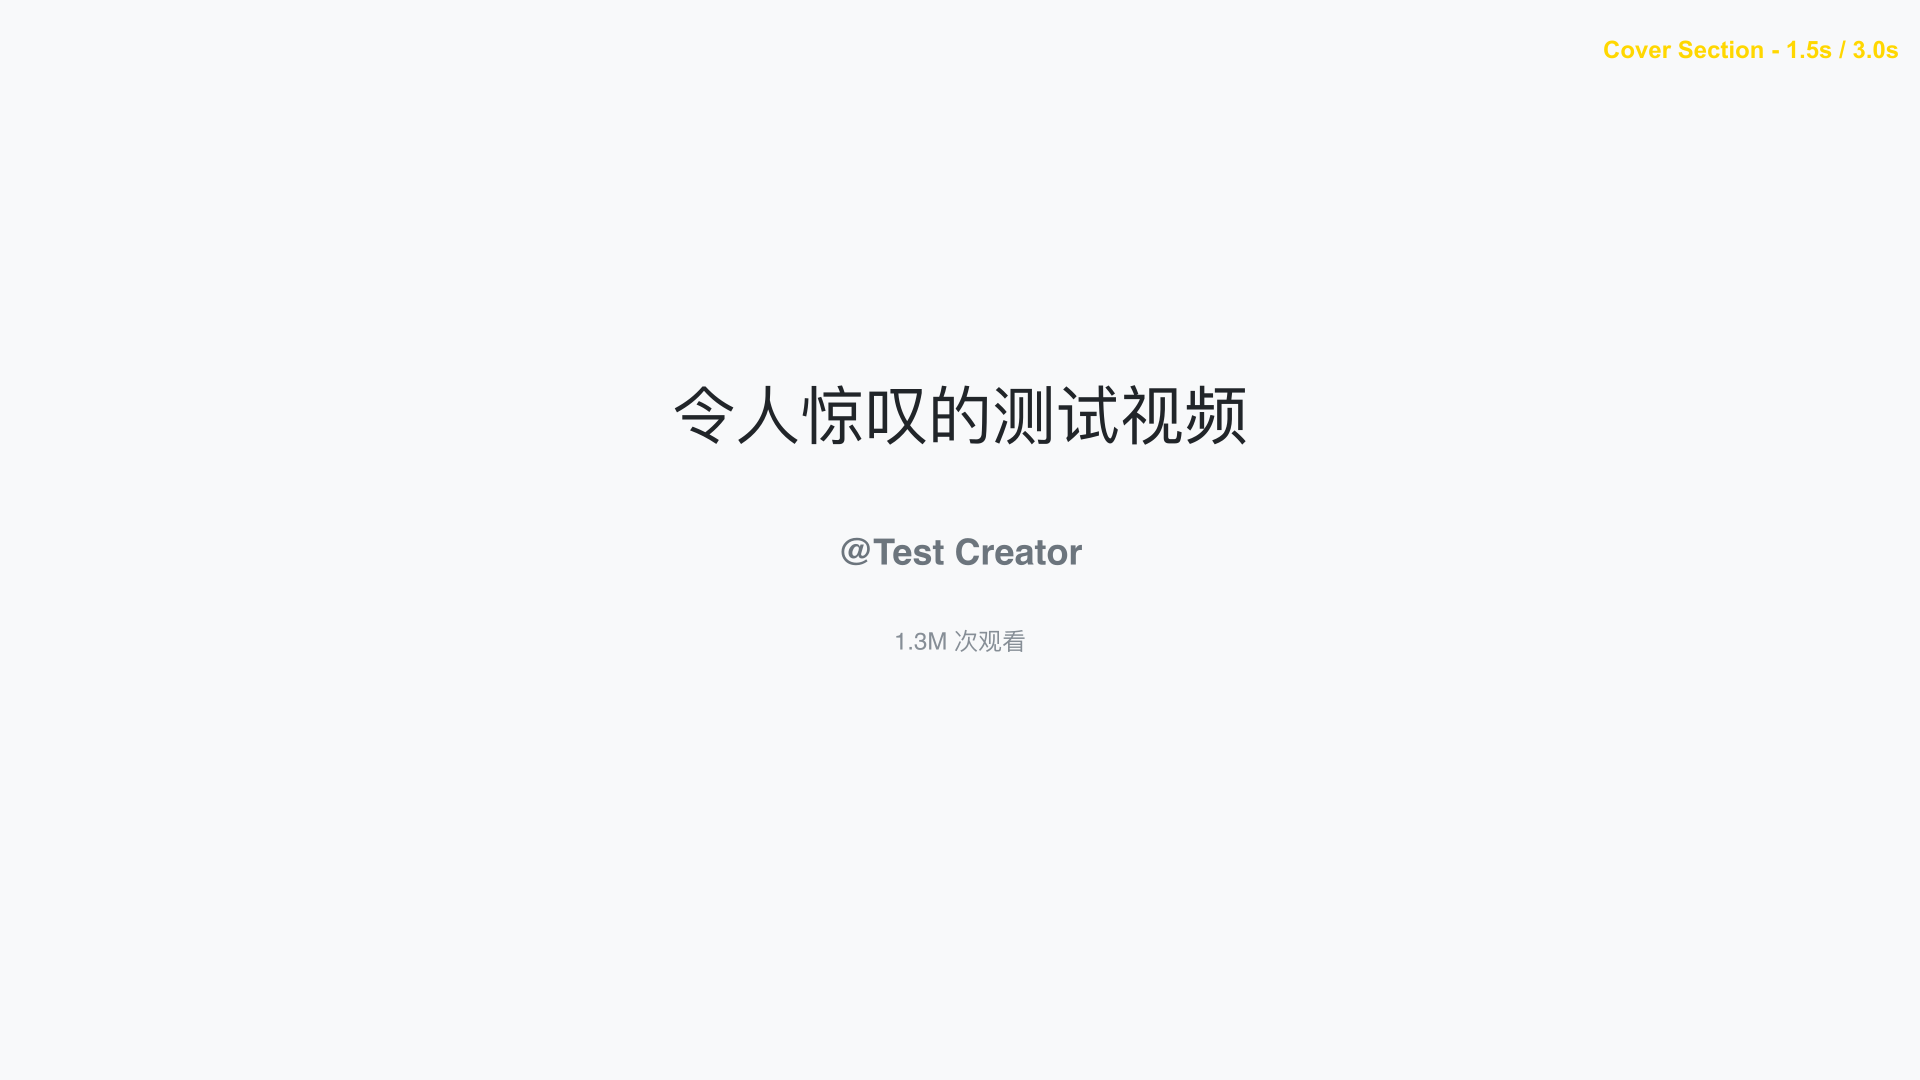
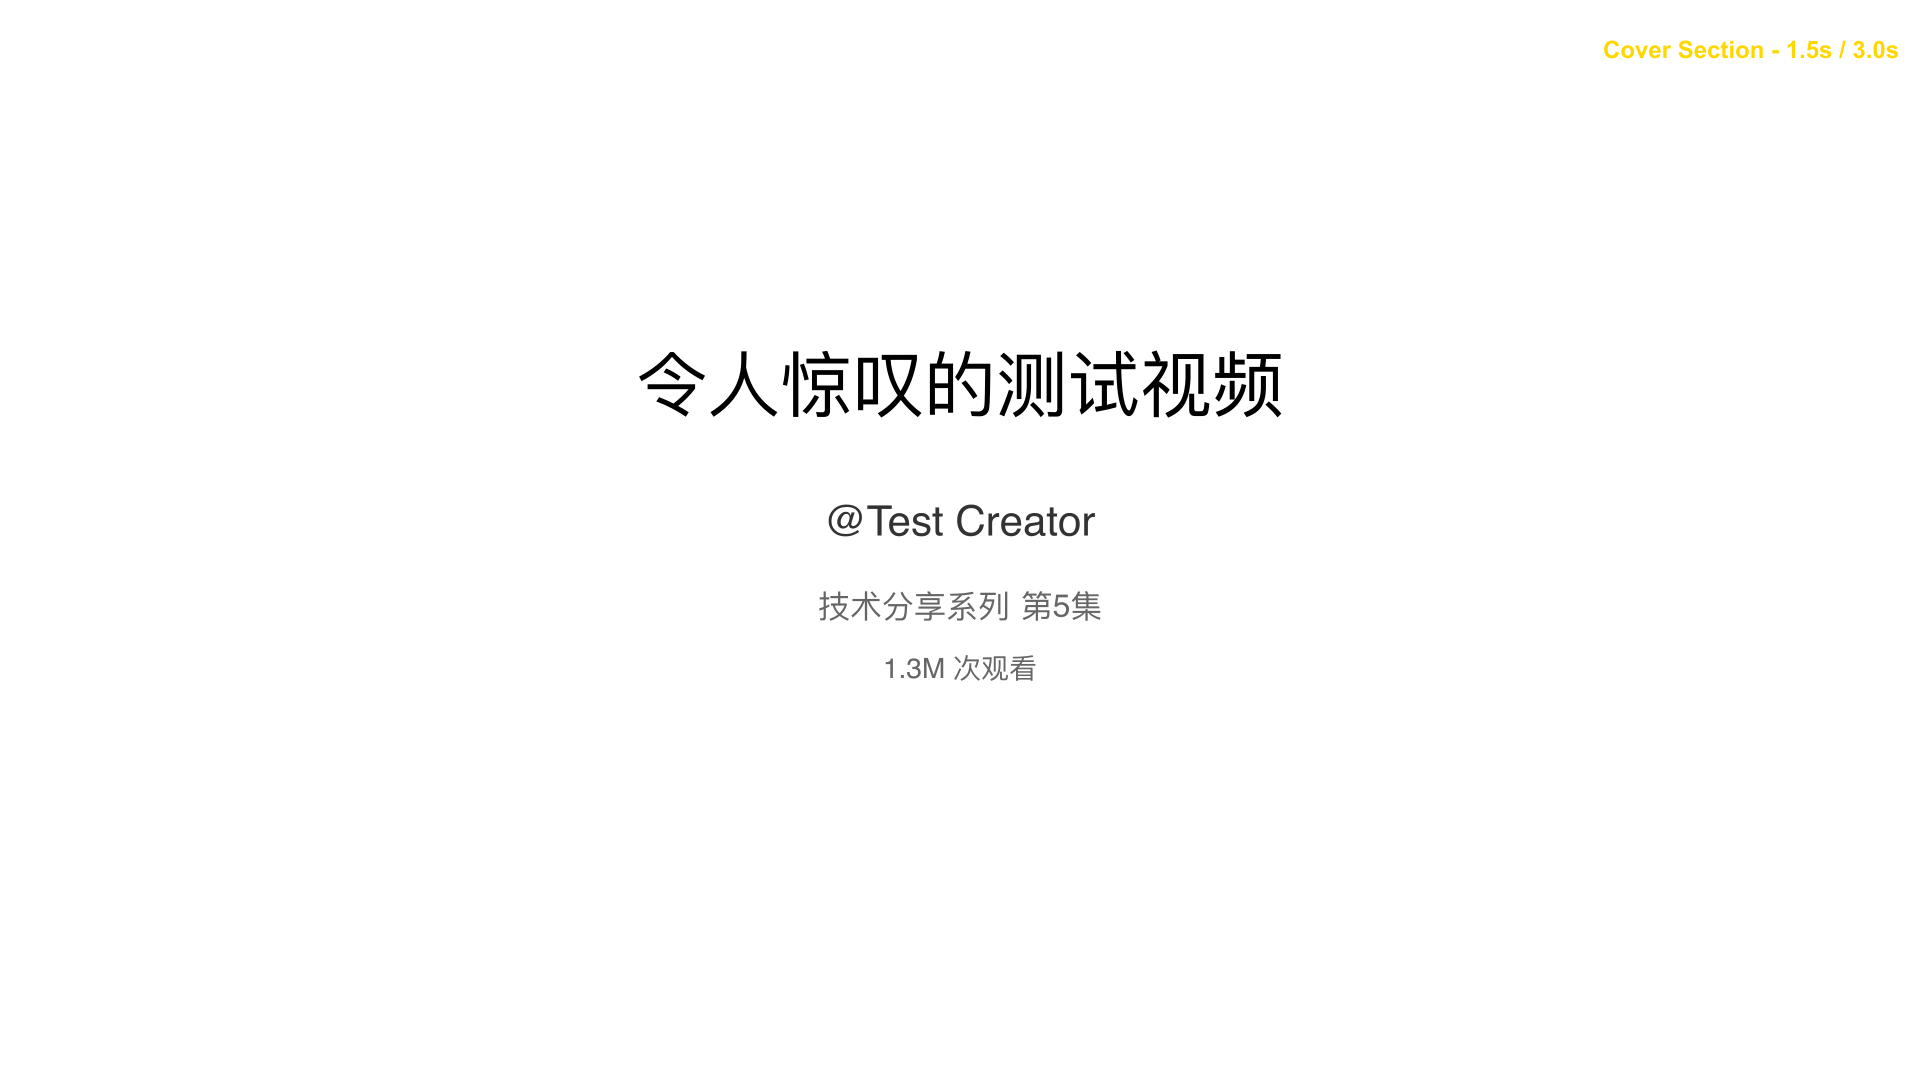
refactor: Update cover section rendering with improved background color and enhanced text styles for title, author, and series information. Adjust layout dimensions for better visual presentation and update tests to reflect new series data.

Changed region(s): [[0.3125, 0.3056, 0.6875, 0.4278], [0.4062, 0.4583, 0.5938, 0.6417]]

diff --git a/lib/media.ts b/lib/media.ts
@@ -1272,23 +1272,23 @@ async function renderCoverSection(
 	width: number,
 	height: number,
 ): Promise<void> {
-	// Light background
-	ctx.fillStyle = '#F8F9FA'
+	// Clean white background
+	ctx.fillStyle = '#FFFFFF'
 	ctx.fillRect(0, 0, width, height)
 
 	// Calculate total content height for proper vertical centering
 	const centerX = width / 2
 	const title = videoInfo.translatedTitle || videoInfo.title
-	const wrappedTitle = wrapText(ctx, title, width - 240)
+	const wrappedTitle = wrapText(ctx, title, width - 200)
 	
-	// Calculate heights
+	// Calculate heights with larger content
 	const titleHeight = wrappedTitle.length * 80
 	const titleGap = 60
-	const authorHeight = 36
-	const authorGap = 50
-	const seriesHeight = videoInfo.series ? 28 : 0
-	const seriesGap = videoInfo.series ? 40 : 0
-	const viewHeight = 24
+	const authorHeight = 42
+	const authorGap = 40
+	const seriesHeight = videoInfo.series ? 32 : 0
+	const seriesGap = videoInfo.series ? 30 : 0
+	const viewHeight = 28
 	
 	// Total content height
 	const totalContentHeight = titleHeight + titleGap + authorHeight + authorGap + seriesHeight + seriesGap + viewHeight
@@ -1296,9 +1296,9 @@ async function renderCoverSection(
 	// Start Y position for vertical centering
 	let currentY = (height - totalContentHeight) / 2
 	
-	// Main title with enhanced styling
-	ctx.fillStyle = '#212529'
-	ctx.font = 'bold 64px "Noto Sans SC"'
+	// Main title - larger and prominent
+	ctx.fillStyle = '#000000'
+	ctx.font = '600 72px "Noto Sans SC"'
 	ctx.textAlign = 'center'
 	ctx.textBaseline = 'middle'
 	
@@ -1308,18 +1308,18 @@ async function renderCoverSection(
 	
 	currentY += titleHeight + titleGap
 
-	// Author info with @ symbol
+	// Author info - larger @ symbol
 	const authorText = videoInfo.author || 'Unknown Author'
-	ctx.fillStyle = '#6C757D'
-	ctx.font = 'bold 36px "Noto Sans SC"'
+	ctx.fillStyle = '#333333'
+	ctx.font = '500 42px "Noto Sans SC"'
 	ctx.fillText(`@${authorText}`, centerX, currentY)
 	
 	currentY += authorHeight + authorGap
 
-	// Series info (if available) with improved styling
+	// Series info (if available) - larger
 	if (videoInfo.series) {
-		ctx.fillStyle = '#868E96'
-		ctx.font = '28px "Noto Sans SC"'
+		ctx.fillStyle = '#666666'
+		ctx.font = '400 32px "Noto Sans SC"'
 		const seriesText = videoInfo.seriesEpisode 
 			? `${videoInfo.series} 第${videoInfo.seriesEpisode}集`
 			: videoInfo.series
@@ -1327,9 +1327,9 @@ async function renderCoverSection(
 		currentY += seriesHeight + seriesGap
 	}
 
-	// View count with modern formatting
-	ctx.fillStyle = '#868E96'
-	ctx.font = '24px "Noto Sans SC"'
+	// View count - larger
+	ctx.fillStyle = '#666666'
+	ctx.font = '400 28px "Noto Sans SC"'
 	ctx.fillText(`${formatViewCount(videoInfo.viewCount)} 次观看`, centerX, currentY)
 
 }

diff --git a/lib/__tests__/media.test.ts b/lib/__tests__/media.test.ts
@@ -139,6 +139,8 @@ describe('Individual Rendering Functions - Unit Tests', () => {
 			viewCount: 1250000,
 			author: 'Test Creator',
 			thumbnail: 'https://example.com/thumbnail.jpg',
+			series: '技术分享系列',
+			seriesEpisode: 5,
 		}
 
 		const comment = {
@@ -672,6 +674,8 @@ describe('Individual Rendering Functions - Unit Tests', () => {
 
 		// 13. Test cover section with series information
 		console.log('📋 Testing cover section with series information...')
+		console.log('🔍 Debug: videoInfo.series =', videoInfo.series)
+		console.log('🔍 Debug: videoInfo.seriesEpisode =', videoInfo.seriesEpisode)
 		const seriesCanvas = createCanvas(1920, 1080)
 		const seriesCtx = seriesCanvas.getContext('2d')
 
